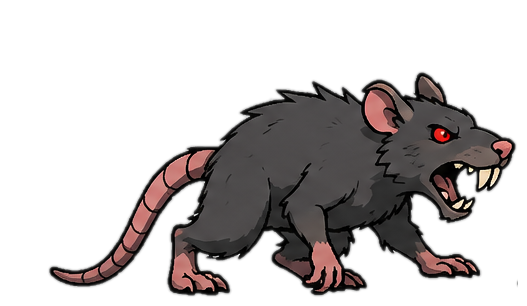
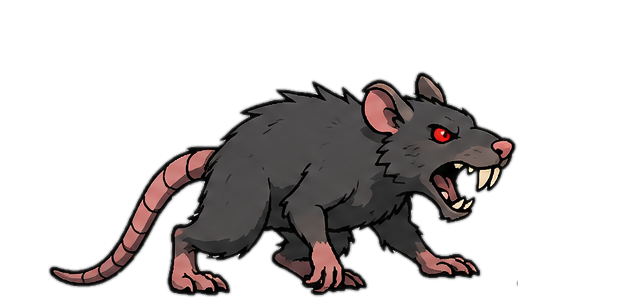
Rat: new 3x4 attack sheet wired, f11's severed tail recovered, edge halo bled
Three defects reported from play, three distinct causes.

1. THE ATTACK SHEET HAD BEEN REPLACED UNDER THE MANIFEST. A regenerated
12-frame attack sheet (3x4, 1448x1086, matching the idle sheet's new
layout) was saved over the old filename, which still declared grid
(2, 6) from the 1774x887 version. Slicing a 3x4 sheet on 2x6 lines
shredded a third of the frames into ~90x110px fragments -- f1/f4/f7/f10
were body-less scraps. Nothing warned, and nothing could: the slicer has
no way to know the intended layout, every cell still produced output, and
the cross-sheet mass guard passed because the surviving frames were fine.
Worth knowing as a failure mode -- a sheet swapped at a stable filename
is invisible to every check in this tool. Grid corrected to (3, 4), scale
re-measured 1.276 -> 1.247. Attack now scores redraw 0.5 / travel 61%,
which is a proper lunge (the spec's own calibration cites 0.7 as good).

2. THE LAST IDLE FRAME WAS LOSING ITS TAIL. best_cut assumes a gutter
exists -- it takes the emptiest column near the nominal split, which is
right whenever the artist left a gap and wrong when two figures actually
OVERLAP, because then every column between them carries ink from both and
the emptiest one is somewhere INSIDE a figure. Row 3's two right-hand
rats overlap by 9px (766..1099 and 1090..1422), so the cut landed at
1155, severing 65px of the fourth rat's tail and leaving f11 a stub whose
ground anchor then sat 40px right of every other frame. That is the
[…]

diff --git a/tools/slice_actor_sheet.py b/tools/slice_actor_sheet.py
@@ -274,19 +274,21 @@ ACTORS = {
                 "names": [None, None, None, None, None, None],
             },
             {
-                # New 12-frame attack (2026-08-30), flat cel style, white-
-                # backed (253/243-ish near-white, not a literal #FFFFFF
-                # flood -- same "white_flood" mode as Giant_rat_sheet.png,
-                # not the idle sheet's green key). Even 2x6 grid.
+                # 12-frame attack. REGENERATED 2026-08-30 in the same 3x4
+                # 1448x1086 layout as the idle sheet, replacing the earlier
+                # 2x6 1774x887 one at the same filename. The grid here MUST
+                # match the file on disk: it was left at (2, 6) for one
+                # slice after the new art landed, which cut a 3x4 sheet on
+                # 2x6 lines and shredded a third of the frames into
+                # ~90x110px fragments (attack f1/f4/f7/f10). Nothing warned
+                # -- the slicer has no way to know the intended layout, and
+                # every frame still "sliced successfully".
                 "file": "Giant_rat_attack_sheet_12_frame.png",
                 "key": "white_flood",
-                "grid": (2, 6),
-                "scale": 1.276,  # measured via --suggest-scales rat (median
-                                 # sqrt-mass 179.4 vs the reference sheet's
-                                 # 228.9) -- drawn smaller than the reference
-                                 # sheet, same direction as the idle sheet
-                                 # (1.208), so upscaling again rather than
-                                 # shrinking the fixed reference.
+                "grid": (3, 4),
+                "scale": 1.247,  # re-measured via --suggest-scales rat for
+                                 # the regenerated sheet (median sqrt-mass
+                                 # 183.5 vs the reference sheet's 228.9).
                 "drop_far_components_px": 0,  # 6 of 12 cells carry a
                                  # detached fragment that bled in from a
                                  # neighbouring cell (a floating tail-tip on
@@ -355,6 +357,17 @@ ACTORS = {
                 # key at all; it is a mitigation for a Protocol A #9 failure
                 # that is now confined to one boundary instead of all five.
                 "drop_far_components_px": 0,
+                # Row 3's two right-hand rats OVERLAP by 9px (766..1099 and
+                # 1090..1422), so no empty column exists between them and
+                # best_cut's "emptiest column near the split" lands at 1155,
+                # inside the fourth rat -- it severed 65px of its tail and
+                # left f11 a stub with its anchor shifted 40px right, which
+                # is the "last frame cuts out of the box" that was reported.
+                # Rows 1 and 2 have real gutters and cut correctly at ~1100
+                # on their own, so only row 2 (0-indexed) is overridden.
+                # 1095 splits the overlap: rat 3 loses 4px, rat 4 loses 5px,
+                # against 65px lost to the automatic choice.
+                "col_cuts": {2: [383, 740, 1095]},
             },
         ],
         "aliases": {"guard": "extra"},
@@ -565,13 +578,28 @@ def alpha_centroid_x(mask, box):
     return box[0] + weighted / total
 
 
-def cut_cells(mask, sheet_w, sheet_h, cols, rows=None, bands=None):
+def cut_cells(mask, sheet_w, sheet_h, cols, rows=None, bands=None, col_cuts=None):
     """Row-major list of tight ABSOLUTE boxes (or None for an empty cell).
 
     Either `rows` (nominal even grid, each row cut nudged to the emptiest
     gutter) or `bands` (explicit [(y0,y1), ...] row ranges, used verbatim)
     must be given. Column cuts are always computed PER ROW/BAND and always
     nudged -- bleed on one row says nothing about another.
+
+    `col_cuts` overrides that search for specific rows, and exists because
+    `best_cut` assumes A GUTTER EXISTS. It finds the emptiest column near
+    the nominal split, which is right whenever the artist left a gap and
+    catastrophically wrong when two figures actually OVERLAP: every column
+    between them has ink from both, so the emptiest column in the window is
+    somewhere INSIDE one of the figures, and the cut lands there. On the
+    rat's regenerated idle that severed 65px of a tail (row 3 cut at 1155
+    instead of ~1095, because its two right-hand rats overlap by 9px and
+    rows 1-2 -- which do have gutters -- cut cleanly at ~1100).
+
+    Shape: {row_index: [x1, x2, ...]} giving the INTERIOR cuts for that row
+    verbatim, `cols - 1` of them. Rows absent from the dict keep the normal
+    search. Same posture as `bands`: state it explicitly when the automatic
+    choice cannot be right, and only for the rows that need it.
     """
     if bands is not None:
         row_ranges = list(bands)
@@ -587,14 +615,21 @@ def cut_cells(mask, sheet_w, sheet_h, cols, rows=None, bands=None):
 
     cell_w = sheet_w // cols
     x_search = int(cell_w * SEARCH_FRACTION)
+    col_cuts = col_cuts or {}
 
     cells = []
-    for (y0, y1) in row_ranges:
-        weights = column_weights(mask, 0, sheet_w, y0, y1)
-        x_cuts = [0]
-        for c in range(1, cols):
-            x_cuts.append(best_cut(weights, 0, c * cell_w, x_search))
-        x_cuts.append(sheet_w)
+    for row_index, (y0, y1) in enumerate(row_ranges):
+        override = col_cuts.get(row_index)
+        if override is not None:
+            if len(override) != cols - 1:
+                sys.exit(f"col_cuts[{row_index}] has {len(override)} cuts, expected {cols - 1}")
+            x_cuts = [0] + list(override) + [sheet_w]
+        else:
+            weights = column_weights(mask, 0, sheet_w, y0, y1)
+            x_cuts = [0]
+            for c in range(1, cols):
+                x_cuts.append(best_cut(weights, 0, c * cell_w, x_search))
+            x_cuts.append(sheet_w)
         for c in range(cols):
             box = (x_cuts[c], y0, x_cuts[c + 1], y1)
             sub = mask.crop(box).getbbox()
@@ -618,6 +653,39 @@ def key_sheet(image, mode):
         rgba = image.convert("RGBA")
         arr = np.array(rgba)
         is_bg = flood_fill_background_mask(arr[:, :, :3], tolerance=35.0)
+        # BLEED THE SPRITE'S OWN COLOUR OUTWARD BEFORE FEATHERING THE ALPHA.
+        #
+        # The blur below deliberately softens the alpha edge, which means the
+        # boundary pixels end up PARTLY transparent -- and a partly
+        # transparent pixel still shows its own RGB. On a white-backed sheet
+        # that RGB is the white background, so every softened edge composites
+        # as a pale fringe over the dark stage: the "white outline" reported
+        # on the rat's regenerated idle, worst in the notches of its fur
+        # fringe where the edge is most convoluted.
+        #
+        # Dilating the nearest real colour into the background band first
+        # means the feathered pixels carry the creature's own outline colour
+        # instead, so softening reads as a soft edge rather than a halo. Two
+        # passes covers a 1.2px blur with margin. Background pixels far from
+        # the art keep their white but are fully transparent, so nothing sees
+        # them.
+        rgb = arr[:, :, :3].astype(np.float32)
+        known = ~is_bg
+        for _ in range(2):
+            if known.all():
+                break
+            acc = np.zeros_like(rgb)
+            cnt = np.zeros(known.shape, np.float32)
+            for dy, dx in ((1, 0), (-1, 0), (0, 1), (0, -1)):
+                shifted_rgb = np.roll(rgb, (dy, dx), axis=(0, 1))
+                shifted_known = np.roll(known, (dy, dx), axis=(0, 1))
+                acc += shifted_rgb * shifted_known[:, :, None]
+                cnt += shifted_known
+            fill = (~known) & (cnt > 0)
+            rgb[fill] = acc[fill] / cnt[fill][:, None]
+            known = known | fill
+        arr[:, :, :3] = np.clip(rgb, 0, 255).astype(np.uint8)
+
         alpha = np.where(is_bg, 0, 255).astype(np.uint8)
         alpha = np.array(Image.fromarray(alpha, "L").filter(ImageFilter.GaussianBlur(1.2)))
         arr[:, :, 3] = alpha
@@ -843,9 +911,10 @@ def resize_premultiplied(image, new_size):
 
 def _cells_for_sheet(mask, sheet_w, sheet_h, sheet_spec):
     if "bands" in sheet_spec:
-        return cut_cells(mask, sheet_w, sheet_h, cols=sheet_spec["bands"]["cols"], bands=sheet_spec["bands"]["rows"])
+        return cut_cells(mask, sheet_w, sheet_h, cols=sheet_spec["bands"]["cols"],
+                         bands=sheet_spec["bands"]["rows"], col_cuts=sheet_spec.get("col_cuts"))
     rows, cols = sheet_spec["grid"]
-    return cut_cells(mask, sheet_w, sheet_h, cols=cols, rows=rows)
+    return cut_cells(mask, sheet_w, sheet_h, cols=cols, rows=rows, col_cuts=sheet_spec.get("col_cuts"))
 
 
 def _load_and_key(sheet_spec, source_dir=SOURCE_DIR):
